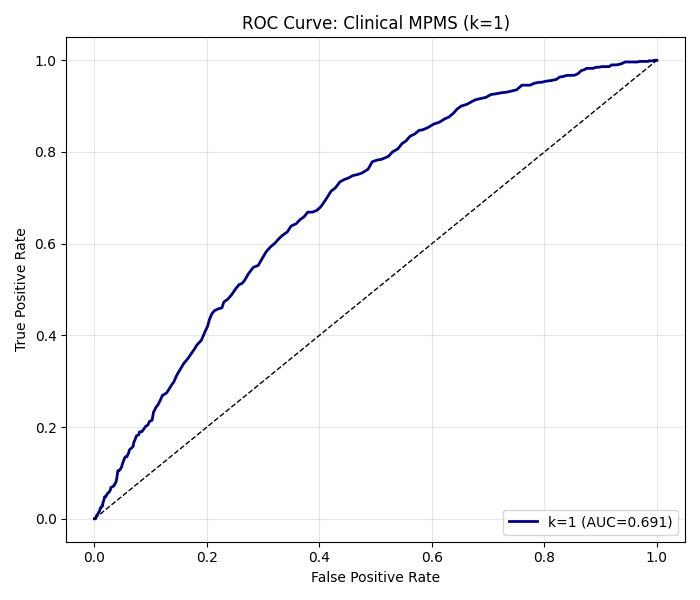
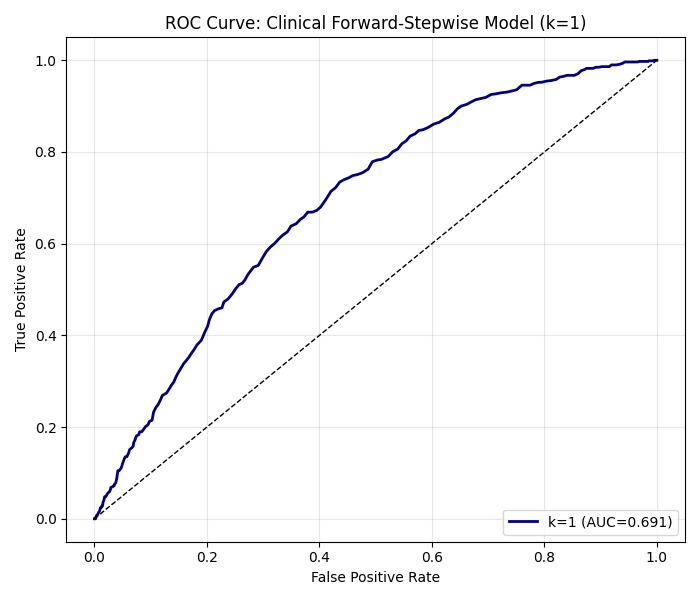
Fix figure feature-pool leak and stale MPMS labels in outputs
Review findings, all manuscript-visible:

1. plots.py used its OWN hardcoded exclusion list for the RF/XGBoost curves in
   fig_abstract_combined.png (the manuscript composite figure). It had drifted
   from config: the figure's ML models were trained on 69 features INCLUDING all
   four WOMAC symptom variables (the exact leak removed elsewhere) and the three
   raw ordinal education columns (double-counted with their dummies). Now uses
   the canonical BASE_EXCLUDE/WOMAC_VARS/BIO_VARS pool (62 features), matching
   runner.run_comparison. Figure regenerated.

2. "MPMS" (the invented, non-existent technique name) was still baked into
   user-facing output: the Panel A legend, three figure titles, a model label
   written into results CSVs, and a permutation-importance filename. All renamed
   to "Forward Stepwise". Affected outputs regenerated.

3. plots.py Panel B hardcoded the "Final Model Cutoff" line at k=5.5; now
   derived from the actual final feature list so it cannot silently misplace.

All 35 tests pass.

Changed region(s): [[0.24, 0.03, 0.84, 0.06]]

diff --git a/src/koa_screening/plots.py b/src/koa_screening/plots.py
@@ -23,7 +23,7 @@ from xgboost import XGBClassifier
 from sklearn.metrics import roc_curve, roc_auc_score
 
 from . import data as p
-from .config import RND, RAW_CSV, RESULTS_FINAL
+from .config import BASE_EXCLUDE, BIO_VARS, RND, RAW_CSV, RESULTS_FINAL, WOMAC_VARS
 
 OUTDIR = str(RESULTS_FINAL)
 
@@ -84,15 +84,14 @@ def main():
     feats_mpms_best = feats_mpms_all[:9] # According to table, 9 vars selected
     feats_final_5 = feats_mpms_all[:5]
     
-    # Define Inputs for RF/XGB (Clinical Input Set)
-    exclude_base = [
-        'idelsa', 'side', 'kl', 'oapf', 'oa_knee',
-        'kl_raw_num', 'oapf_raw_num',
-        'race_raw', 'occupation', 'smoking_status',
-        'physical_activity_ipaq', 'alcohol_use'
-    ]
-    bio_vars = ['bone_mineral_content_kg', 'mineral_mass_kg', 'skeletal_muscle_mass_kg']
-    X_cols = [c for c in df.columns if c not in exclude_base + bio_vars]
+    # Define Inputs for RF/XGB (Clinical Input Set). Use the CANONICAL pool from
+    # config so this figure matches runner.run_comparison exactly: WOMAC excluded
+    # everywhere, bioimpedance reserved for Virtual Maximum, raw categoricals
+    # (incl. the ordinal education columns) replaced by their dummies.
+    # A local hardcoded copy previously drifted and let WOMAC + raw education
+    # into the figure's ML curves.
+    X_cols = [c for c in df.columns
+              if c not in BASE_EXCLUDE and c not in WOMAC_VARS and c not in BIO_VARS]
     X_clinical_input = df[X_cols].dropna(thresh=len(df)*0.5, axis=1) # Same filter as analysis
     feats_clinical_input = X_clinical_input.columns.tolist()
 
@@ -114,7 +113,7 @@ def main():
     models = {
         '1. Full (Lasso)': (get_lr_pipe(), feats_full),
         '2. Clinical (Lasso)': (get_lr_pipe(), feats_clin),
-        '3. Clinical (MPMS)': (get_lr_pipe(), feats_mpms_best),
+        '3. Clinical (Forward Stepwise)': (get_lr_pipe(), feats_mpms_best),
         '4. Final (5 vars)': (get_lr_pipe(), feats_final_5),
         '5. Random Forest': (make_pipeline(SimpleImputer(strategy='median'), get_rf_model()), feats_clinical_input),
         '6. XGBoost': (make_pipeline(SimpleImputer(strategy='median'), get_xgb_model()), feats_clinical_input)
@@ -234,9 +233,13 @@ def main():
             arrowprops=dict(arrowstyle='-', color='gray', lw=1.5, alpha=0.6)
         )
     
-    # Add vertical line separating selected
-    ax1.axvline(x=5.5, color='black', linestyle='--', alpha=0.5, lw=2)
-    ax1.text(5.5, min(gain_df['AUC']), ' Final Model Cutoff ', rotation=90, va='bottom', ha='right', fontsize=14, color='black', fontweight='bold')
+    # Vertical line marking the parsimonious final-model size. Derived from the
+    # actual final feature list (was hardcoded at 5.5, which silently misplaced
+    # the line whenever the selected model changed size).
+    cutoff_k = len(feats_final_5)
+    ax1.axvline(x=cutoff_k + 0.5, color='black', linestyle='--', alpha=0.5, lw=2)
+    ax1.text(cutoff_k + 0.5, min(gain_df['AUC']), f' Final Model Cutoff (k={cutoff_k}) ',
+             rotation=90, va='bottom', ha='right', fontsize=14, color='black', fontweight='bold')
 
     # Explicit Axis Labels
     ax1.set_xlabel('Number of Variables (k)', fontsize=18, fontweight='bold')

diff --git a/src/koa_screening/features.py b/src/koa_screening/features.py
@@ -192,7 +192,7 @@ def run_analysis(df, outdir='./results_final_analysis', use_womac=False):
     models = {
         '1. Full': vars_complex,
         '2. Clinical (- bioimpedance)': vars_clinical_lasso,
-        '3. Clinical MPMS': vars_clinical_mpms,
+        '3. Clinical (Forward Stepwise)': vars_clinical_mpms,
     }
     
     # 3. Comparação (ROC)
@@ -296,7 +296,7 @@ def run_analysis(df, outdir='./results_final_analysis', use_womac=False):
             fig, ax = plt.subplots(figsize=(7, 6))
             ax.plot(fpr, tpr, color='navy', linewidth=2, label=f'k={k} (AUC={mean_auc:.3f})')
             ax.plot([0, 1], [0, 1], 'k--', linewidth=1)
-            ax.set_title(f'ROC Curve: Clinical MPMS (k={k})')
+            ax.set_title(f'ROC Curve: Clinical Forward-Stepwise Model (k={k})')
             ax.set_xlabel('False Positive Rate')
             ax.set_ylabel('True Positive Rate')
             ax.legend(loc='lower right')
@@ -324,7 +324,7 @@ def run_analysis(df, outdir='./results_final_analysis', use_womac=False):
             ax.plot(curve['fpr'], curve['tpr'], color=color, linewidth=lw, alpha=alpha, label=label)
 
         ax.plot([0, 1], [0, 1], 'k--', linewidth=1)
-        ax.set_title('ROC Curves: Clinical MPMS (k=1..N)')
+        ax.set_title('ROC Curves: Clinical Forward-Stepwise Models (k=1..N)')
         ax.set_xlabel('False Positive Rate')
         ax.set_ylabel('True Positive Rate')
         ax.grid(True, alpha=0.3)
@@ -436,7 +436,7 @@ def run_analysis(df, outdir='./results_final_analysis', use_womac=False):
         pad = max(0.03, (y_max - y_min) * 0.25)
         ax.set_ylim(y_min - pad * 0.15, min(1.0, y_max + pad))
 
-    ax.set_title('Incremental Gain: Clinical MPMS Variables', pad=14)
+    ax.set_title('Incremental Gain: Forward-Stepwise Selected Variables', pad=14)
     ax.set_ylabel('AUC')
     ax.set_xlabel('Number of variables')
     ax.grid(True, alpha=0.3)

diff --git a/src/koa_screening/importance.py b/src/koa_screening/importance.py
@@ -86,7 +86,7 @@ def main():
     mpms_file = os.path.join(OUTDIR, "mpms_features_for_ci.csv")
     if os.path.exists(mpms_file):
         mpms_feats = pd.read_csv(mpms_file)['feature'].tolist()
-        models_to_analyze.append(("Clinical (MPMS)", mpms_feats, make_logreg_unweighted))
+        models_to_analyze.append(("Clinical (Forward Stepwise)", mpms_feats, make_logreg_unweighted))
     else:
         print(f"Warning: {mpms_file} not found. Run the feature-selection step first.")
 
